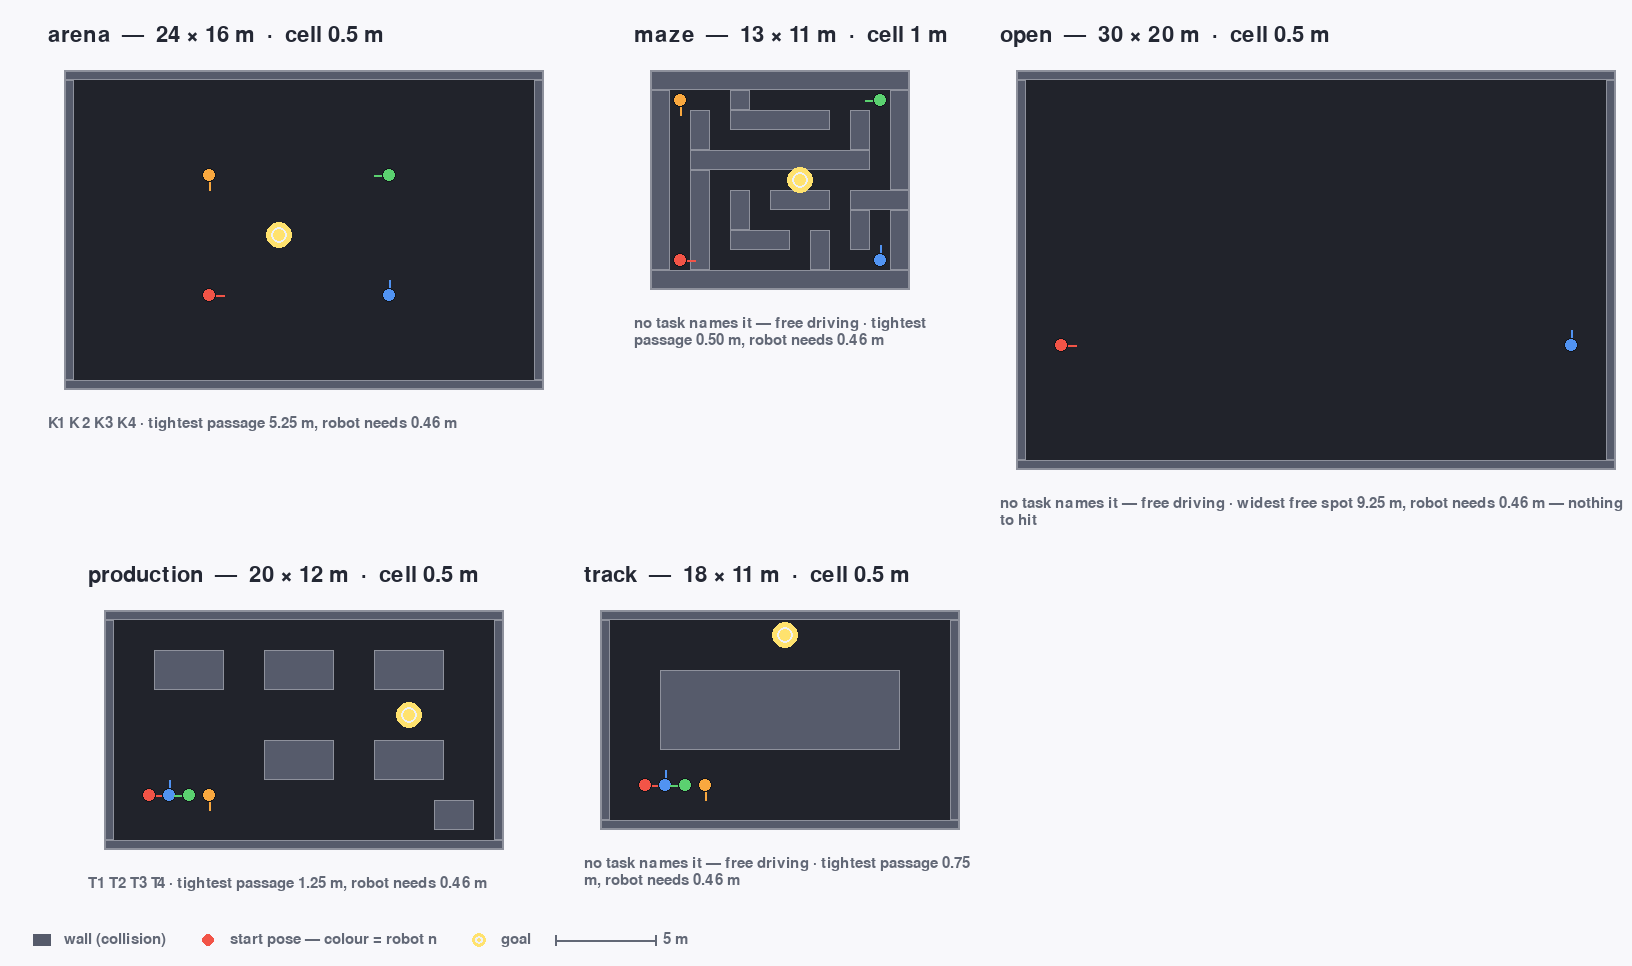
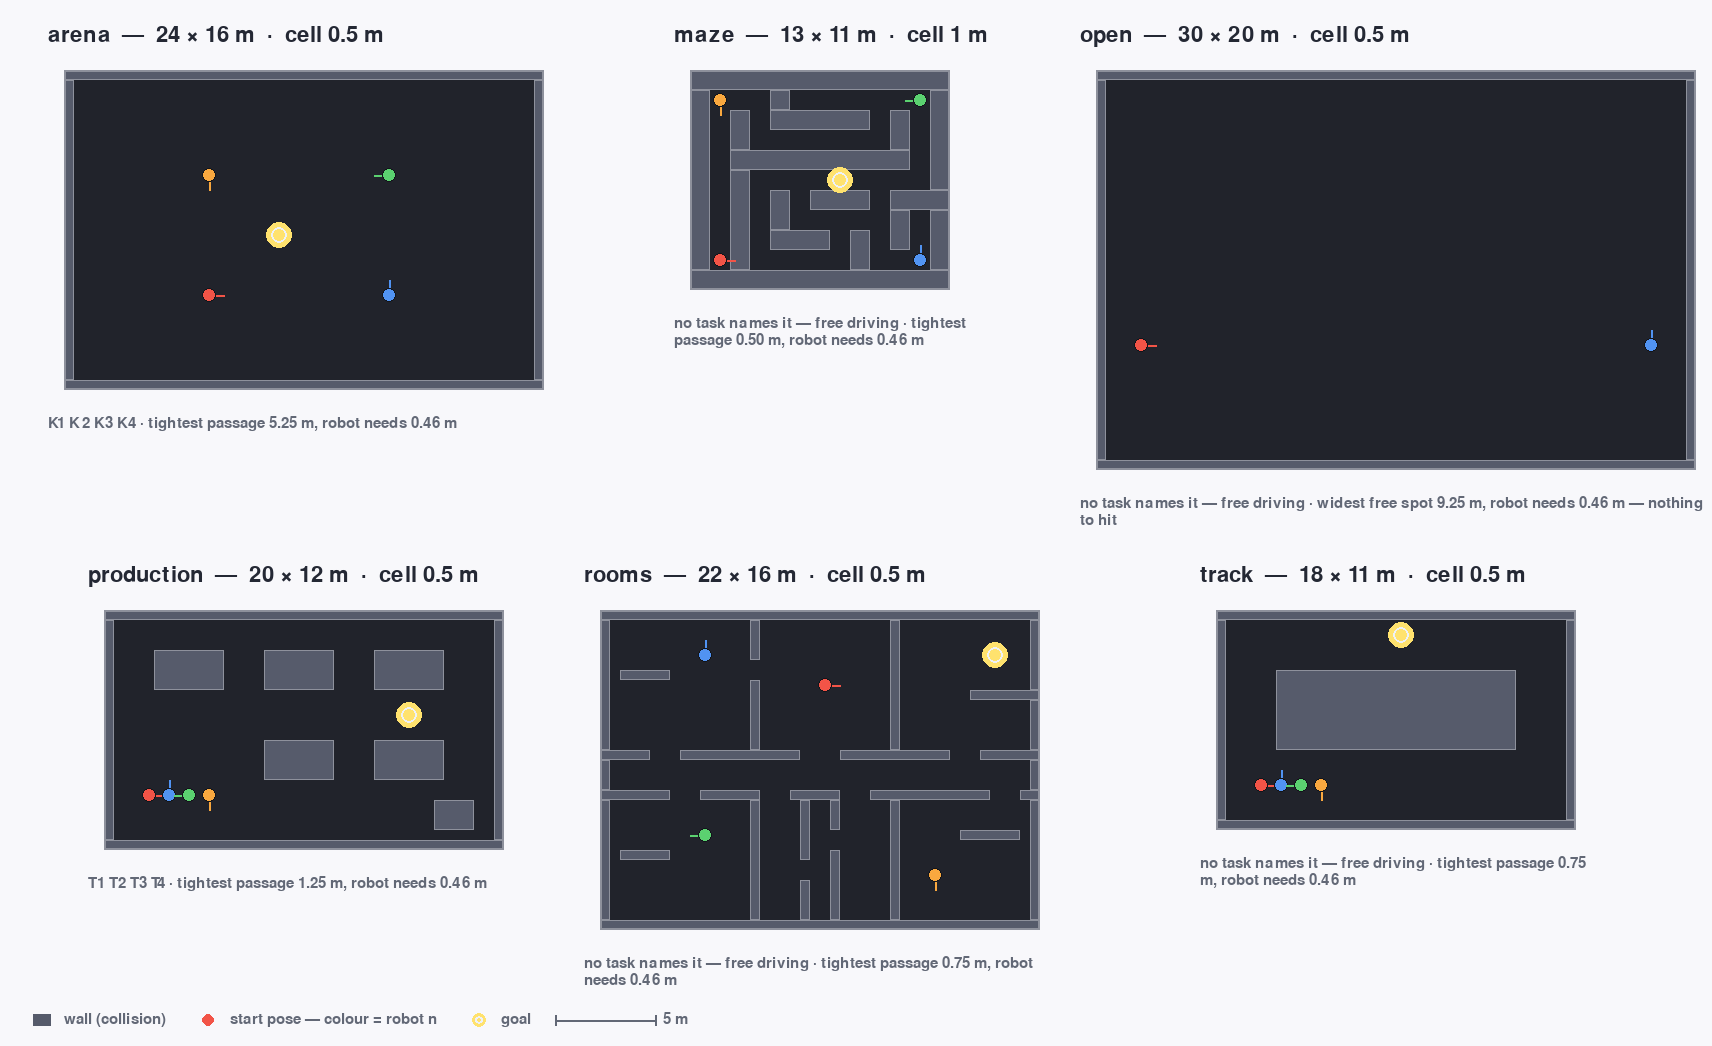
-- adding new room

diff --git a/tests/test_worlds_closed_a.py b/tests/test_worlds_closed_a.py
@@ -3,8 +3,10 @@
 All of this is checked with `tools/worldcheck.py` too — but that tool is a CLI for the
 supervisor, and these are the invariants a student's new world file must not break.
 """
+import heapq
 import math
 import os
+import re
 import subprocess
 import sys
 
@@ -83,6 +85,91 @@ def test_the_maze_is_no_arena():
     shares = [all((i + di, j + dj) in frei for di in (-1, 0, 1) for dj in (-1, 0, 1))
                for i, j in frei]
     assert sum(shares) / len(shares) < 0.6, "the maze may be coarser, but it must stay a maze"
+
+
+# ------------------------------------------------------------------------------- rooms
+#   The one world whose walls divide the hall instead of standing in it. `production` has racks — you
+#   drive around them and the hall stays one hall — so every measure of how open a world is rates it
+#   like an indoor plan. What makes `rooms` indoor is measured here in the two things that do differ.
+
+
+def _open_share(world) -> float:
+    """Share of free cells whose whole 3x3 neighbourhood is free — the maze test's own yardstick."""
+    free = free_cells(world)
+    return sum(all((i + di, j + dj) in free for di in (-1, 0, 1) for dj in (-1, 0, 1))
+               for i, j in free) / len(free)
+
+
+def _doors(line: str, wall: str = "#") -> list:
+    """Widths of the gaps in a line that is mostly wall — the doors of that wall.
+
+    Only lines that are at least 60 % wall count: a row of racks is not a wall that divides the hall,
+    and `production`, whose obstacles are all blocks, has no such line at all. A gap wider than six
+    cells is not a door either, it is the hall opening up.
+    """
+    if line.count(wall) < 0.6 * len(line):
+        return []
+    return [len(run) for run in re.findall(rf"[^{wall}]+", line) if 0 < len(run) <= 6]
+
+
+def test_rooms_is_no_arena():
+    """0.58 by the maze's yardstick, where `arena` reaches 0.89 and `open` 0.91."""
+    assert _open_share(load_world("rooms", cfg=CFG)) < 0.75, \
+        "rooms has been emptied — an indoor plan with nothing in it is the arena again"
+
+
+def test_the_widest_way_through_rooms_is_a_corridor():
+    """The widest route from a spawn to the goal is 0.75 m — the spine's own width, not an accident.
+
+    Measured as the widest path (the route whose narrowest point is as wide as any route's can be),
+    because that is what a driver faces: 0.75 m in `rooms` and in `track`, against 1.25 m in
+    `production` and 4.75 m in `arena`. The tight cells of that route are the cells of the 1.5 m corridor
+    — measured, they are the painted axis row of the plan — which is worth saying because it is the
+    *corridor* that makes this world indoor, not the doors: widening the doorway into the goal room to
+    4 m leaves the number at 0.75 m, while opening the corridor to 2.5 m turns the plan into a hall
+    (1.25 m) and this assertion says so. The lower bound is what the strict world check asks of the
+    robot (0.46 m): constrained route, still drivable.
+    """
+    world = load_world("rooms", cfg=CFG)
+    free = free_cells(world)
+    capacity = {p: gap(world, (p[0] + .5) * world.cell, (p[1] + .5) * world.cell) for p in free}
+    goal = (int(world.goal.x / world.cell), int(world.goal.y / world.cell))
+    widest = 0.0
+    for pose in world.spawns:
+        start = (int(pose.x / world.cell), int(pose.y / world.cell))
+        best, queue = {start: capacity[start]}, [(-capacity[start], start)]
+        while queue:
+            narrow, p = heapq.heappop(queue); narrow = -narrow
+            if narrow < best.get(p, 0) - 1e-9:
+                continue
+            for neighbour in ((p[0] + 1, p[1]), (p[0] - 1, p[1]), (p[0], p[1] + 1), (p[0], p[1] - 1)):
+                if neighbour in free:
+                    narrow_here = min(narrow, capacity[neighbour])
+                    if narrow_here > best.get(neighbour, -1):
+                        best[neighbour] = narrow_here
+                        heapq.heappush(queue, (-narrow_here, neighbour))
+        widest = max(widest, best.get(goal, 0.0))
+    needed = CFG["robot"]["footprint_r"] + 0.25
+    assert widest >= needed, f"the widest route is {widest:.2f} m, the robot needs {needed:.2f} m"
+    assert widest <= 1.0, f"a route {widest:.2f} m wide everywhere is `arena` with walls drawn in"
+
+
+def test_the_hard_door_in_rooms_is_still_the_only_one():
+    """Ten doorways divide the hall, nine of them 1.5 m and one 1.0 m — and that one is the exercise.
+
+    The wide doors are what makes the graded route drivable: the strict check wants 0.46 m at the
+    narrowest point of a route, and a 1 m doorway leaves only 0.25 m at its centre cell. The single
+    narrow doorway joins two rooms directly, off every start->goal route — the place where a sideways
+    odometry error costs a student a minute instead of a collision. Both halves are asserted because
+    both are easy to break by "fixing" one of them: widen the hard door and the world has lost its
+    point, narrow the rest and it has become unfair.
+    """
+    lines = open(os.path.join(REPO, "worlds", "rooms.txt"), encoding="utf-8").read().splitlines()
+    openings = [w for line in lines for w in _doors(line)] \
+        + [w for column in zip(*lines) for w in _doors("".join(column))]
+    assert len(openings) >= 6, f"only {len(openings)} doorways in walls that divide the hall"
+    assert sorted(openings)[:2] == [2, 3], f"door widths {sorted(openings)} — expected one 1 m door, rest 1.5 m"
+    assert 1 not in openings, "a 0.5 m doorway is not a door for a 0.42 m robot, it is a trap"
 
 
 # ------------------------------------------------------------------- cell size per world

diff --git a/tests/test_worldpic_docs.py b/tests/test_worldpic_docs.py
@@ -3,15 +3,16 @@
 One test, two things: the tool still draws every shipped world (no window, no network), and the
 PNG that the README links is present and non-trivial. If someone edits worlds/*.txt into
 something unparsable, or breaks tools/worldpic.py, the README figure is broken too — that is
-what this catches. How many panels there are follows `worlds/`: since `open` the grid is five wide
-in three columns, and `tests/test_world_poi_w5.py` is where the numbers under the panels are
-compared with the README.
+what this catches. How many panels there are follows `worlds/`: since `rooms` the set is six, in three columns, and
+`tests/test_world_poi_w5.py` is where the numbers under the panels are compared with the README.
 """
 import os
 import subprocess
 import sys
 
 from support_docs import where
+
+from mecanum_lab.worlds import list_worlds
 
 ROOT = os.path.dirname(os.path.dirname(os.path.abspath(__file__)))
 WERKZEUG = os.path.join(ROOT, "tools", "worldpic.py")
@@ -53,7 +54,7 @@ def test_the_hall_pictures_of_the_front_page_are_the_tool_run_today(tmp_path):
     import pygame
     pygame.display.init()
 
-    for name in ("arena", "maze", "open", "production", "track"):
+    for name in list_worlds():
         committed = os.path.join(ROOT, "docs", "img", f"world_{name}.png")
         fresh = tmp_path / f"world_{name}.png"
         result = subprocess.run([sys.executable, WERKZEUG, "--worlds", name, "--out", str(fresh)],

diff --git a/tests/test_world_poi_w5.py b/tests/test_world_poi_w5.py
@@ -118,7 +118,7 @@ def test_the_picture_draws_every_world_including_the_empty_one(tmp_path):
 def test_the_documentation_quotes_the_widths_the_checker_measures():
     """The documentation states passage widths; the numbers have to be the checker's, not the author's."""
     pages = text()
-    quoted = {"arena": "5.25", "maze": "0.50", "open": "9.25"}
+    quoted = {"arena": "5.25", "maze": "0.50", "open": "9.25", "rooms": "0.75"}
     for name, number in quoted.items():
         caption = worldpic.clearance(name, CFG)              # what goes under the panel
         assert number in caption, f"{name}: the picture says {caption!r}"

diff --git a/docs/worlds.md b/docs/worlds.md
@@ -1,4 +1,4 @@
-# The five arenas, and the hall that is deliberately empty
+# The six arenas, the hall that is deliberately empty, and the plan that is indoors
 
 The passage widths quoted below are the checker's, not the author's: `tools/worldcheck.py` measures
 them, `tools/worldpic.py` prints them under the panels, and a test compares this page with the tool.
@@ -33,6 +33,36 @@ ros2 launch mecanum_lab lab.launch.py world:=open
 Without ROS 2 the same two runs are `./lab sim --world open --config config/demo_open_odrift.json` and
 `./lab sim --world open`.
 
+## An indoor plan: `--world rooms`
+
+22 × 16 m as a floor plan: rooms off a 1.5 m corridor, doorways in the walls that divide the hall, and
+the goal in an alcove behind a partition. Every number below is `tools/worldcheck.py`'s.
+
+The first number is the one that surprised: **119 m of wall edge per 100 m² of floor**, where
+`production` has 111 and `arena` 46. So `rooms` is not denser than the furnished hall, and it does not
+want to be — what makes it indoor is that its walls *divide* it. Ten doorways sit in wall lines that span
+the hall; `production` has no such line at all, its tables are blocks you drive around and the hall stays
+one hall. The consequence a driver feels is the width of the widest route a spawn can take to the goal:
+**0.75 m**, the corridor's own width — the same figure as `track`, against 1.25 m in `production` and
+5.25 m in `arena`. The robot needs 0.46 m there, so the route is constrained and still drivable, which is
+the whole point of the world: an odometry error to the side shows itself as "the doorway is on the wrong
+side" long before it shows itself as a wall contact.
+
+Two decisions are worth their measurements, because both were made by a checker and not by taste:
+
+* **Doorways are 1.5 m, with one exception.** A 1 m doorway leaves 0.25 m free at the centre cell, and the
+  strict check (`worldcheck --free 0.25`, the one that writes the caption under the panel) wants 0.46 m — a
+  1 m door is therefore passable but not gradable. One exists anyway, between the two rooms on the left:
+  off every start→goal route, so it costs nobody points and every student a minute when their belief is a
+  decimetre off. `tests/test_worlds_closed_a.py` asserts exactly one 1 m doorway and none narrower.
+* **The goal is behind a partition.** Reaching it means entering the room and turning, so the graded
+  drive is a route through a building rather than a straight line across a hall.
+
+What it is for, besides the doorway exercise: long flat walls 2–4 m apart are the geometry the scan and
+estimate tasks have been asking for (`maze` is too cluttered, `arena` has nothing to see), a radiation
+source in one room makes the counter gradient run *through a doorway*, and `gps.zones` are rectangles in
+world metres — put one over each room and the blackout has a place instead of a switch.
+
 ## Task and arena belong together
 
 `--task` takes task ids, groups or a comma list: `v1` and `alle` (Experiment 1),
@@ -51,14 +81,15 @@ between 0.55 m walls there. Nothing in the report is lying; it is a correct meas
 `node.graded_task()` is the one place where that rule lives; `--world` on top of a grade still wins,
 because an override is the point of an override.
 
-![The five arenas at one common scale, in three columns: arena (24 × 16 m, open hall, the four
+![The six arenas at one common scale, in three columns: arena (24 × 16 m, open hall, the four
 state-estimation tasks), maze (13 × 11 m built on 1 m grid cells), open (30 × 20 m, border walls
 only — the hall for drift work), production (20 × 12 m hall with six tables, the four kinematics
-and odometry tasks) and track (18 × 11 m ring around a central island). Solid blocks are walls that
+and odometry tasks), rooms (22 × 16 m floor plan: rooms off a corridor, doorways, the goal in an
+alcove) and track (18 × 11 m ring around a central island). Solid blocks are walls that
 collide, `-` and `|` are painted floor — free to drive over, drawn nowhere — dots are the start poses of
 robots 1–4 with their heading, the bullseye is the goal.](docs/img/worlds.png)
 
-*The five arenas, drawn by `python3 tools/worldpic.py` — one metre has the same thickness in
+*The six arenas, drawn by `python3 tools/worldpic.py` — one metre has the same thickness in
 every panel, so the halls are comparable.* The numbers under the panels come from the same
 sources the checks use: task titles from `config/tasks.json`, and the width of the tightest
 passage on the widest start→goal path from `tools/worldcheck.py`. `arena` is deliberately open

diff --git a/README.md b/README.md
@@ -109,9 +109,9 @@ are off until asked (`x`). On the bus nothing is hidden, `ros2 topic echo` still
 `--view sensors` starts with everything on, `--layers scan,ghost,-hud` picks layers by hand. Layers, view
 profiles and every segment of the readout line: **[docs/window.md](docs/window.md)**.
 
-## The five halls
+## The six halls
 
-![The five arenas at one scale, drawn by `tools/worldpic.py`: size and cell width above each panel, the tasks graded in it and the tightest passage below it.](docs/img/worlds.png)
+![The six arenas at one scale, drawn by `tools/worldpic.py`: size and cell width above each panel, the tasks graded in it and the tightest passage below it.](docs/img/worlds.png)
 
 | Hall | Picture | What it is for | Started with |
 |---|---|---|---|
@@ -120,6 +120,7 @@ profiles and every segment of the readout line: **[docs/window.md](docs/window.m
 | `open` | ![open: floor and a border wall](docs/img/world_open.png) | drift work: nothing between the robot and the wall, so a wrong wheel radius cannot hide behind a collision | `ros2 launch mecanum_lab lab.launch.py world:=open` |
 | `track` | ![track: a lane around a central island](docs/img/world_track.png) | the lane the odometry demos drive their drift into | `ros2 launch mecanum_lab lab.launch.py world:=track` |
 | `maze` | ![maze: narrow passages on a coarse grid](docs/img/world_maze.png) | narrow passages, and the hall `config/default.json` falls back to when nothing names one | `ros2 launch mecanum_lab lab.launch.py world:=maze` |
+| `rooms` | ![rooms: an indoor floor plan — rooms off a corridor, doorways, a goal in an alcove](docs/img/world_rooms.png) | the one plan whose walls *divide* the hall: every route runs through the corridor and a doorway, so a wrong lateral metre shows itself before a collision does. Long flat walls for the LIDAR, rooms to put a GPS shadow in | `ros2 launch mecanum_lab lab.launch.py world:=rooms` |
 
 Every task names the hall it is graded in inside `config/tasks.json`; `world:=` or `--world` overrides
 it. Sizes, passage widths, the task-to-hall table and how to add `worlds/name.txt` of your own:
@@ -181,7 +182,7 @@ nobody named outbids the `config:=` file, which is how a demo with `"world": "op
 | [docs/demos.md](docs/demos.md) | the six demos and what makes a run go fast (`--speed`, `--fixed-step`) |
 | [docs/kinematics.md](docs/kinematics.md) | Experiment 1: `serve()` and `mission()`, and the standing still |
 | [docs/window.md](docs/window.md) | layers, view profiles, the readout line |
-| [docs/worlds.md](docs/worlds.md) | the five arenas at one scale, task↔arena, the empty hall |
+| [docs/worlds.md](docs/worlds.md) | the six arenas at one scale, task↔arena, the empty hall, the indoor plan |
 | [docs/steering.md](docs/steering.md) | the second drive train (Ackermann) and its two measured lessons |
 | [docs/poi.md](docs/poi.md) | the radiation source `/poi`, its field, why it goes through tables |
 | [docs/wifi.md](docs/wifi.md) | the radio link `/link`, and what `autonomy` means when it drops |
